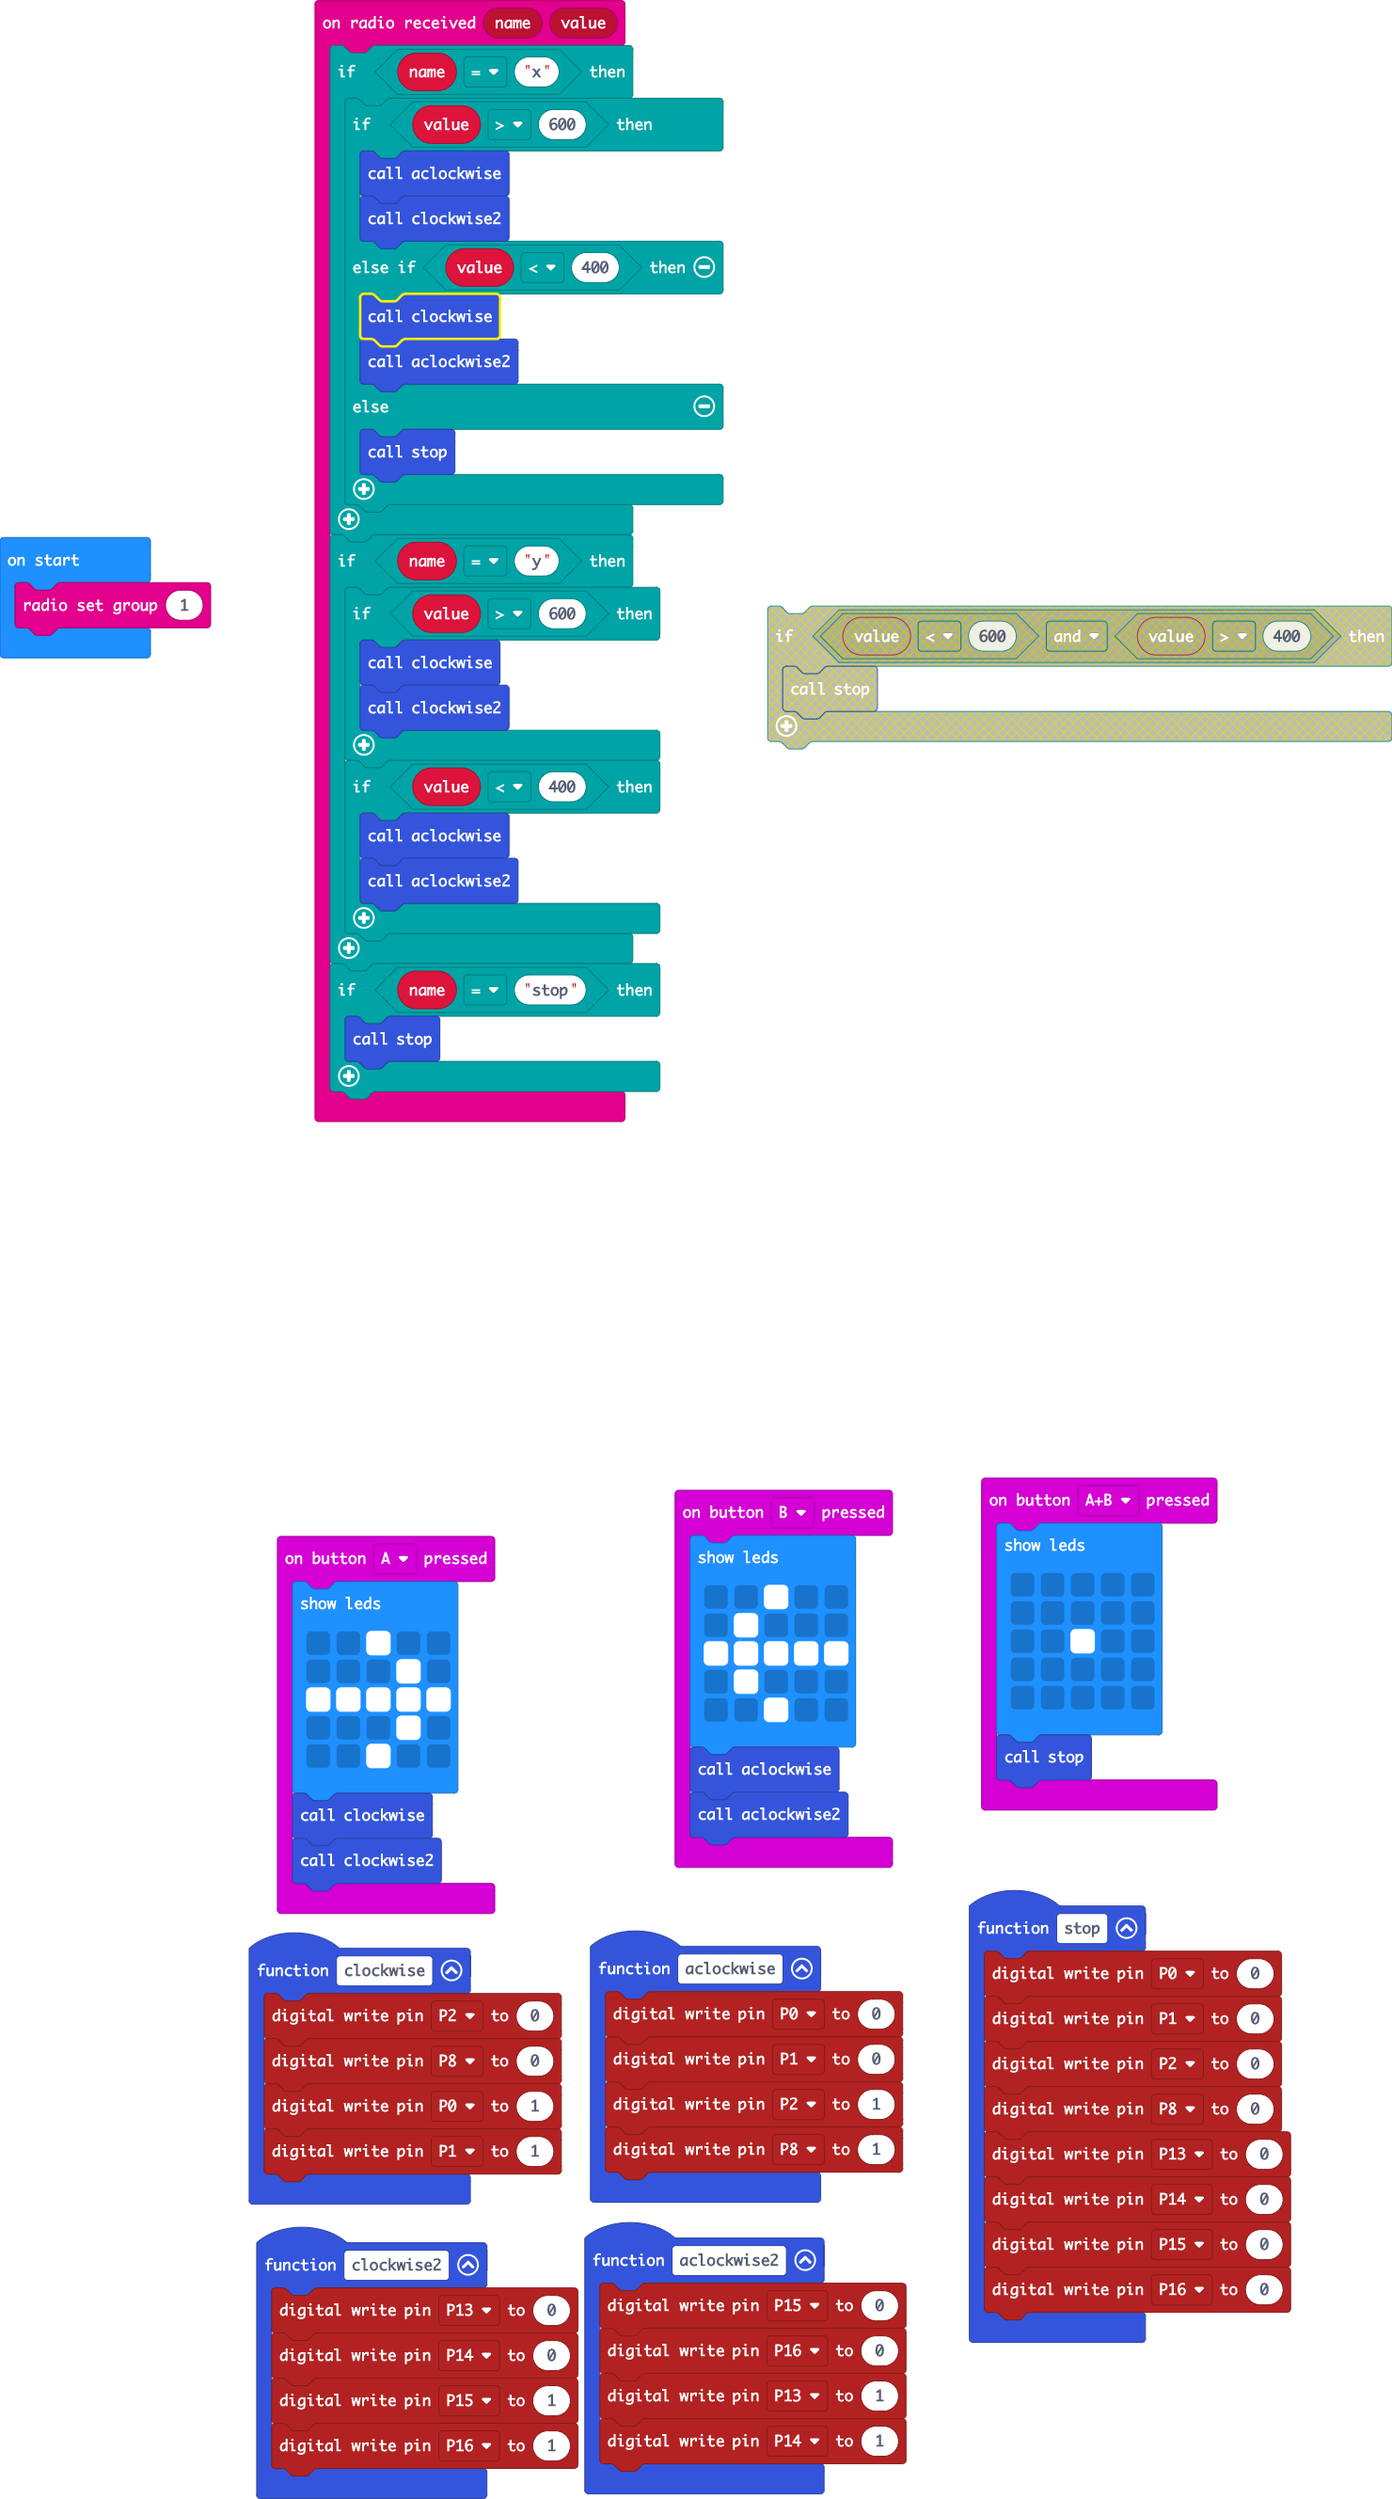
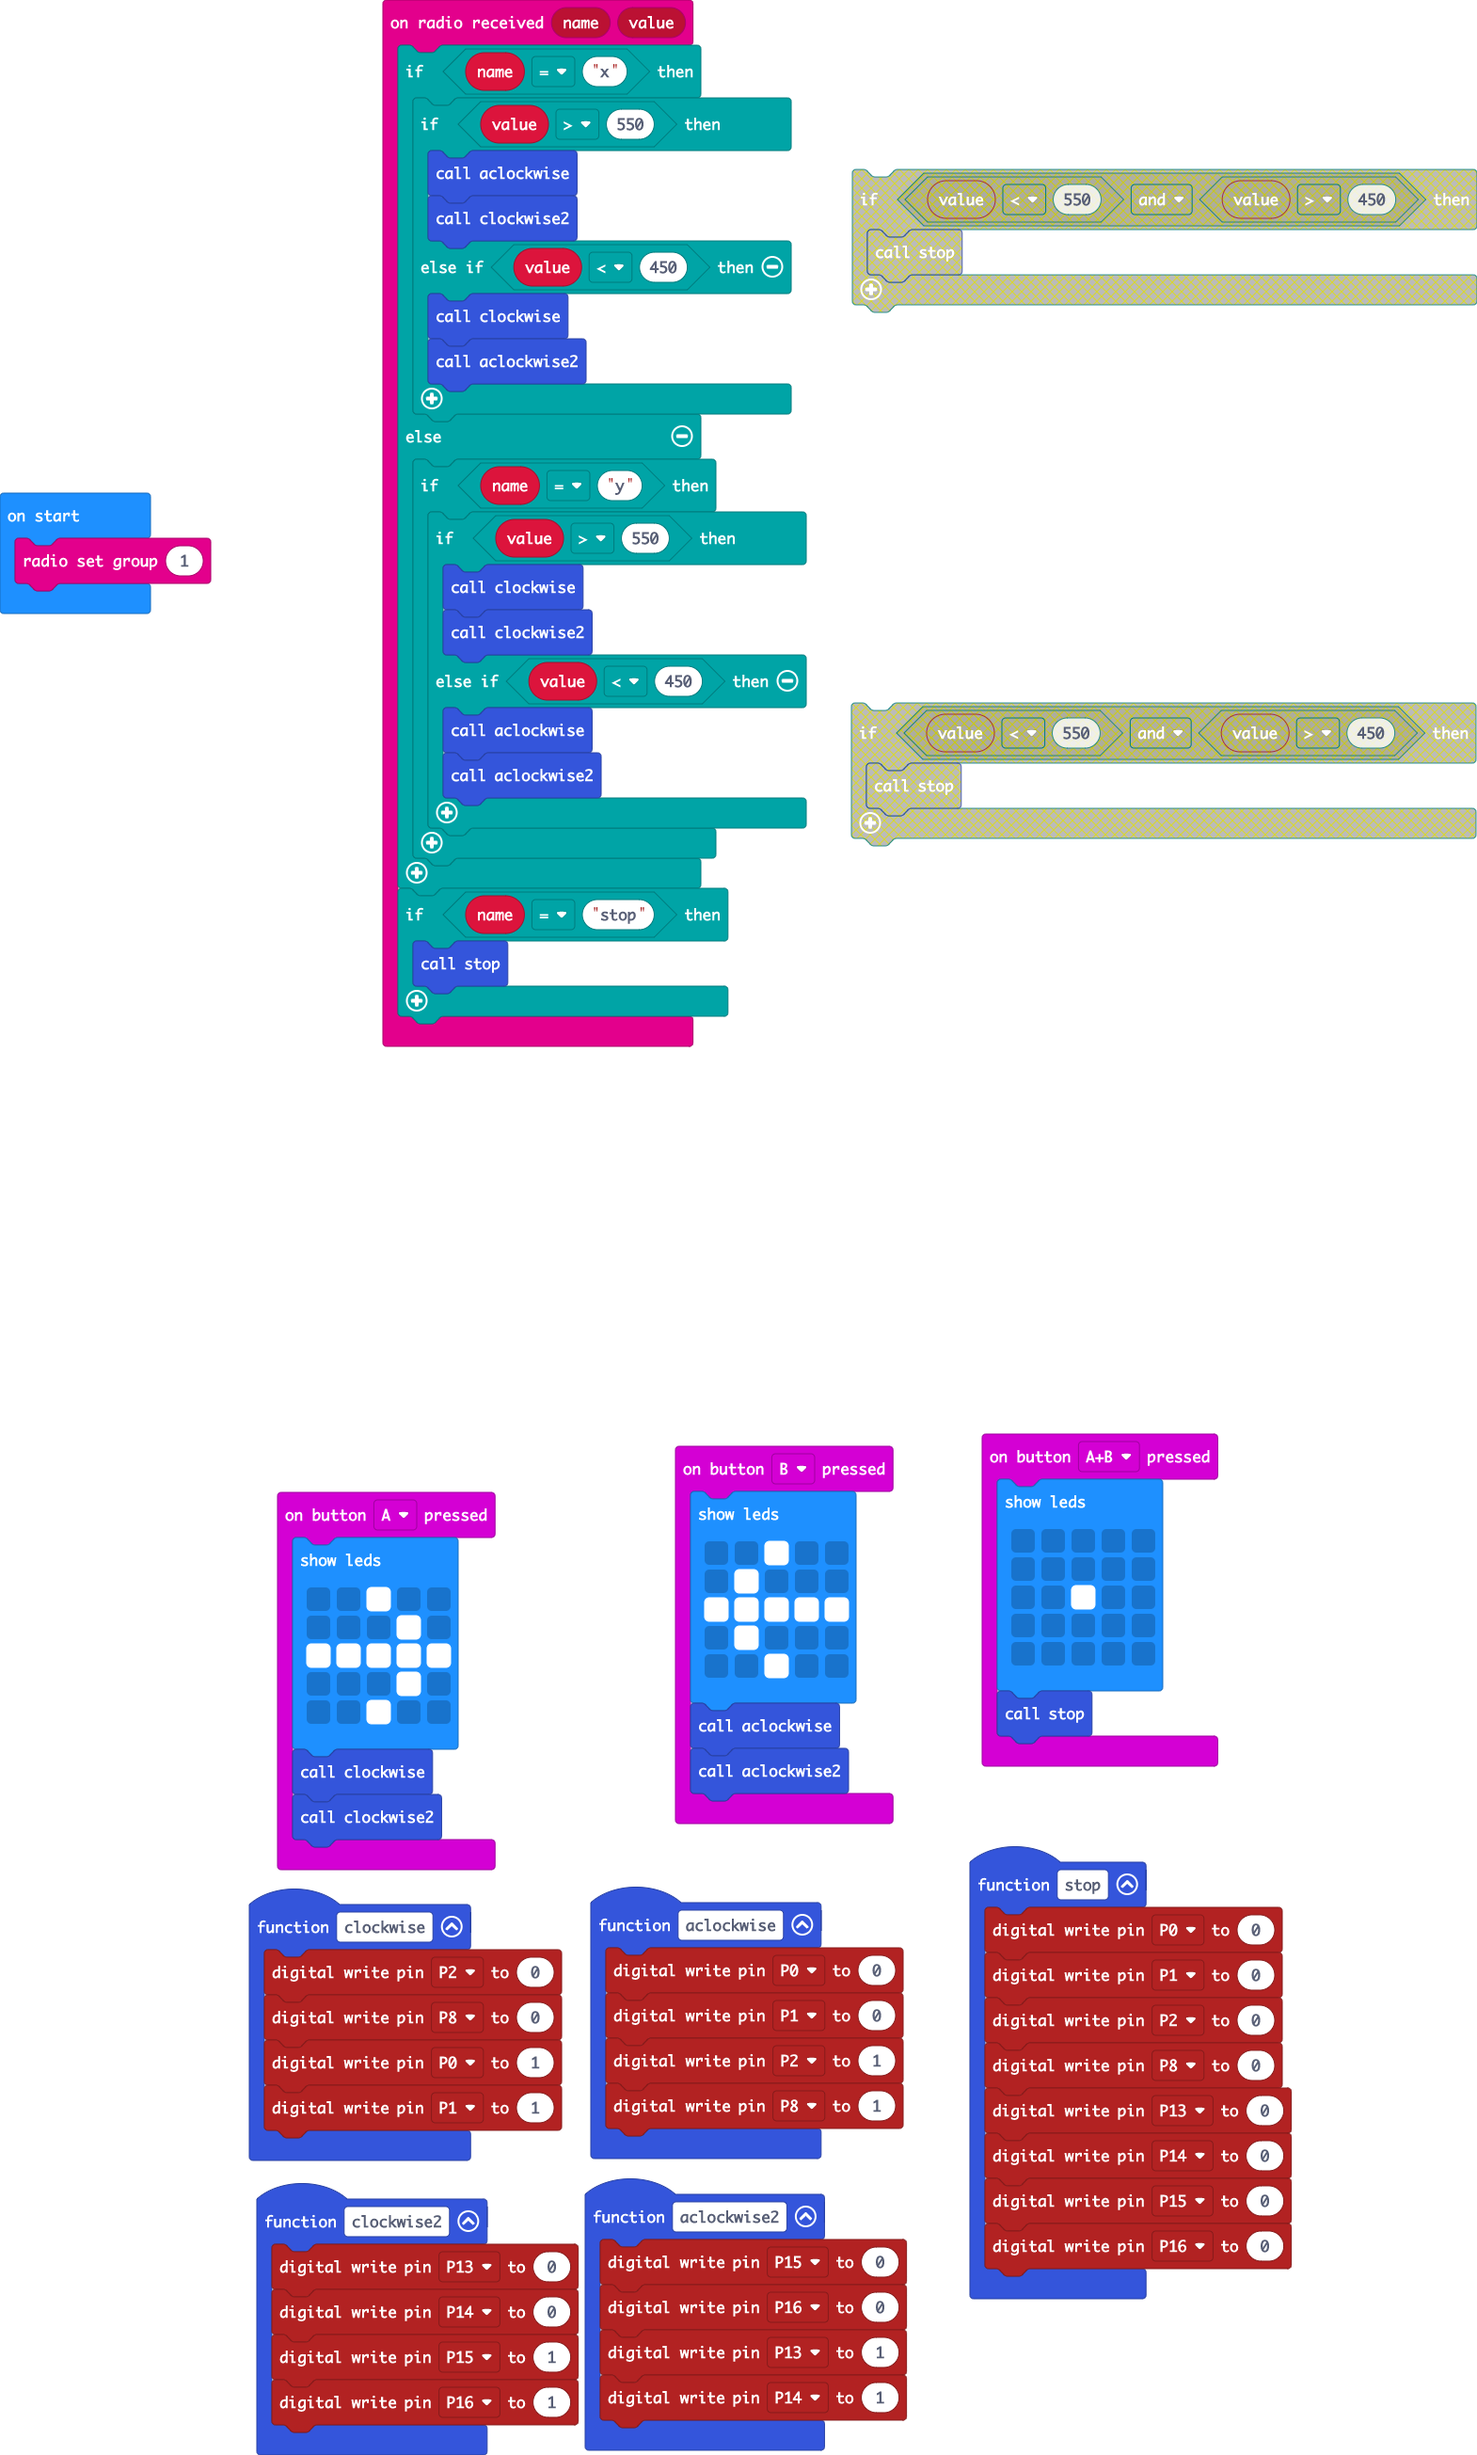
Update main.blocks, main.ts

Changed region(s): [[0.1554, 0.5588, 0.9324, 1.0], [0.2176, 0.0, 1.0, 0.4657], [0.0, 0.1863, 0.1554, 0.2794]]

diff --git a/main.ts b/main.ts
@@ -66,24 +66,22 @@ function aclockwise2 () {
 }
 radio.onReceivedValue(function (name, value) {
     if (name == "x") {
-        if (value > 600) {
+        if (value > 550) {
             aclockwise()
             clockwise2()
-        } else if (value < 400) {
+        } else if (value < 450) {
             clockwise()
             aclockwise2()
-        } else {
-            stop()
         }
-    }
-    if (name == "y") {
-        if (value > 600) {
-            clockwise()
-            clockwise2()
-        }
-        if (value < 400) {
-            aclockwise()
-            aclockwise2()
+    } else {
+        if (name == "y") {
+            if (value > 550) {
+                clockwise()
+                clockwise2()
+            } else if (value < 450) {
+                aclockwise()
+                aclockwise2()
+            }
         }
     }
     if (name == "stop") {
